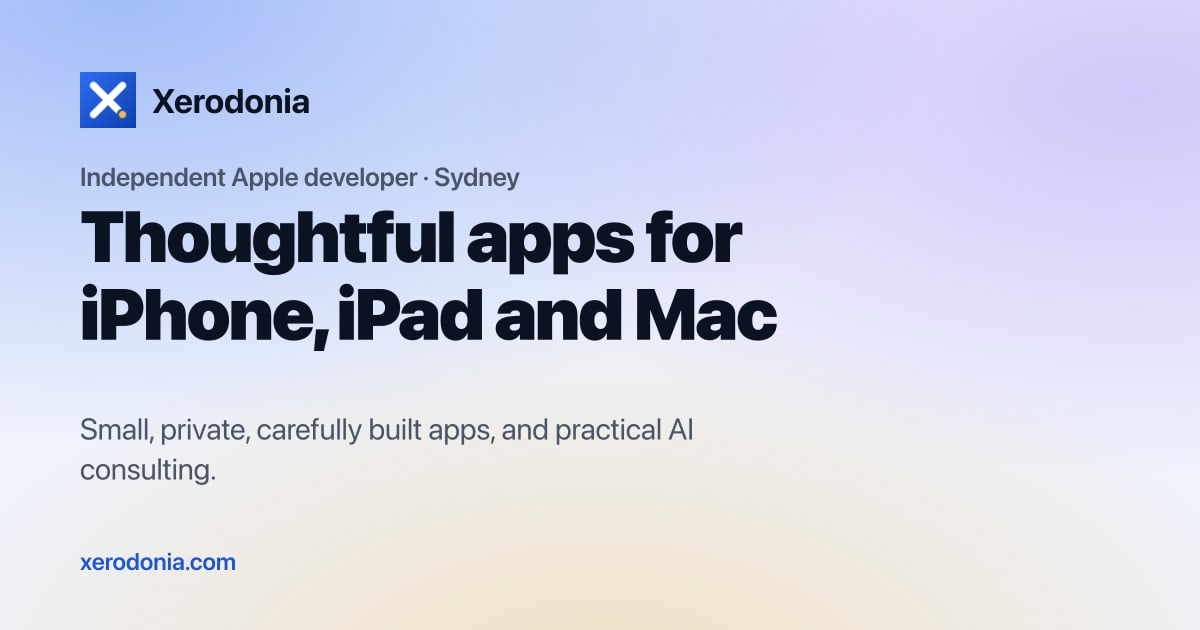
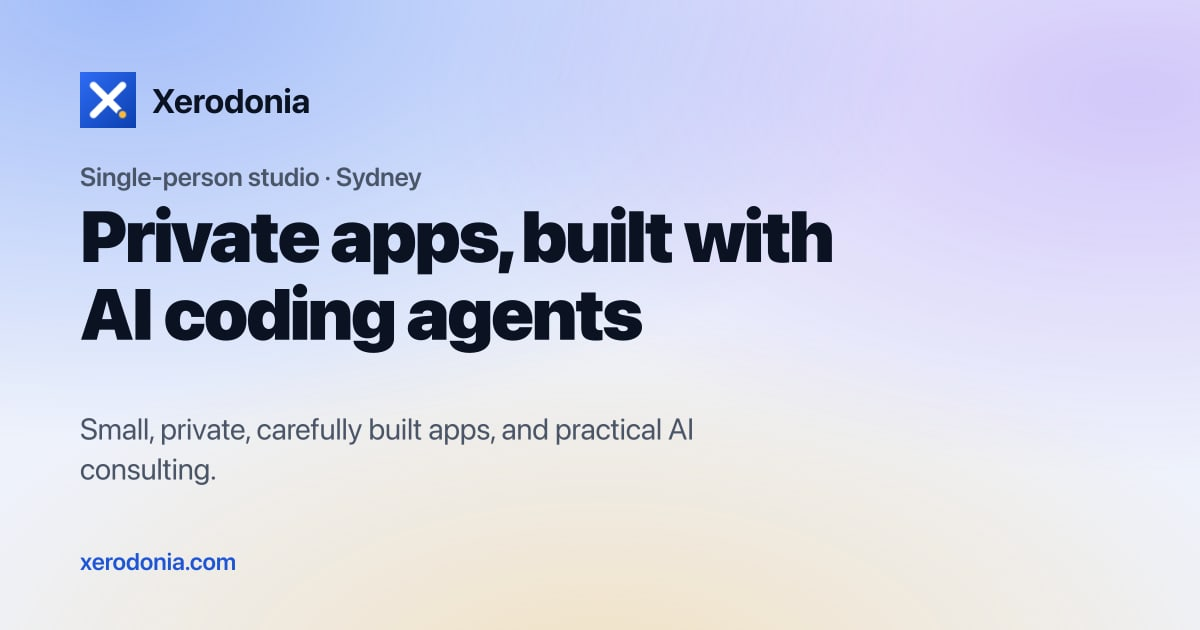
feat: Lead the home page with apps built with AI coding agents
- Home hero: "Single-person studio", "Privacy-focussed apps, built faster with
  AI. Your team can work the same way.", and a new lead
- Home consulting section speaks to development teams, with a link to how we
  set up our own agents
- Home page title, site description, footer and default link-preview card
  match the new hero (default.jpg redrawn by npm run images)
- Consulting: the Business owners audience is hidden (kept in hiddenAudiences),
  and /consulting/business-owners/ redirects to /consulting/; Tech companies has
  a new title; two audiences show as a two-column grid

Wording from Paul's drafts B, C and E in Marketing's
Documentation/Website Assessment.md.

Marketing #909 (outstanding, awaiting Paul's check), #910 (outstanding, awaiting Paul's check)

Changed region(s): [[0.0617, 0.3317, 0.7092, 0.573], [0.0617, 0.2714, 0.4317, 0.3016]]

diff --git a/src/_data/site.js b/src/_data/site.js
@@ -17,7 +17,7 @@ export default {
   // press-<slug>, uploaded by the Marketing repo's update-website.sh.
   pressUrl: "https://github.com/pdarcey/xerodonia-website/releases/download",
   description:
-    "Xerodonia makes small, private, carefully built apps for iPhone, iPad and Mac, and helps businesses put AI coding agents to work.",
+    "Xerodonia makes small, private, carefully built apps for iPhone, iPad and Mac, and helps development teams put AI coding agents to work.",
   // The free call's booking page. Confirmed working by Paul, 16 Nov 2026 (Marketing #911).
   calendlyUrl: "https://calendly.com/calendly-xerodonia/10-15_minute_call",
   // The consulting MCP server's endpoint, once it's deployed (Stage 5c).
